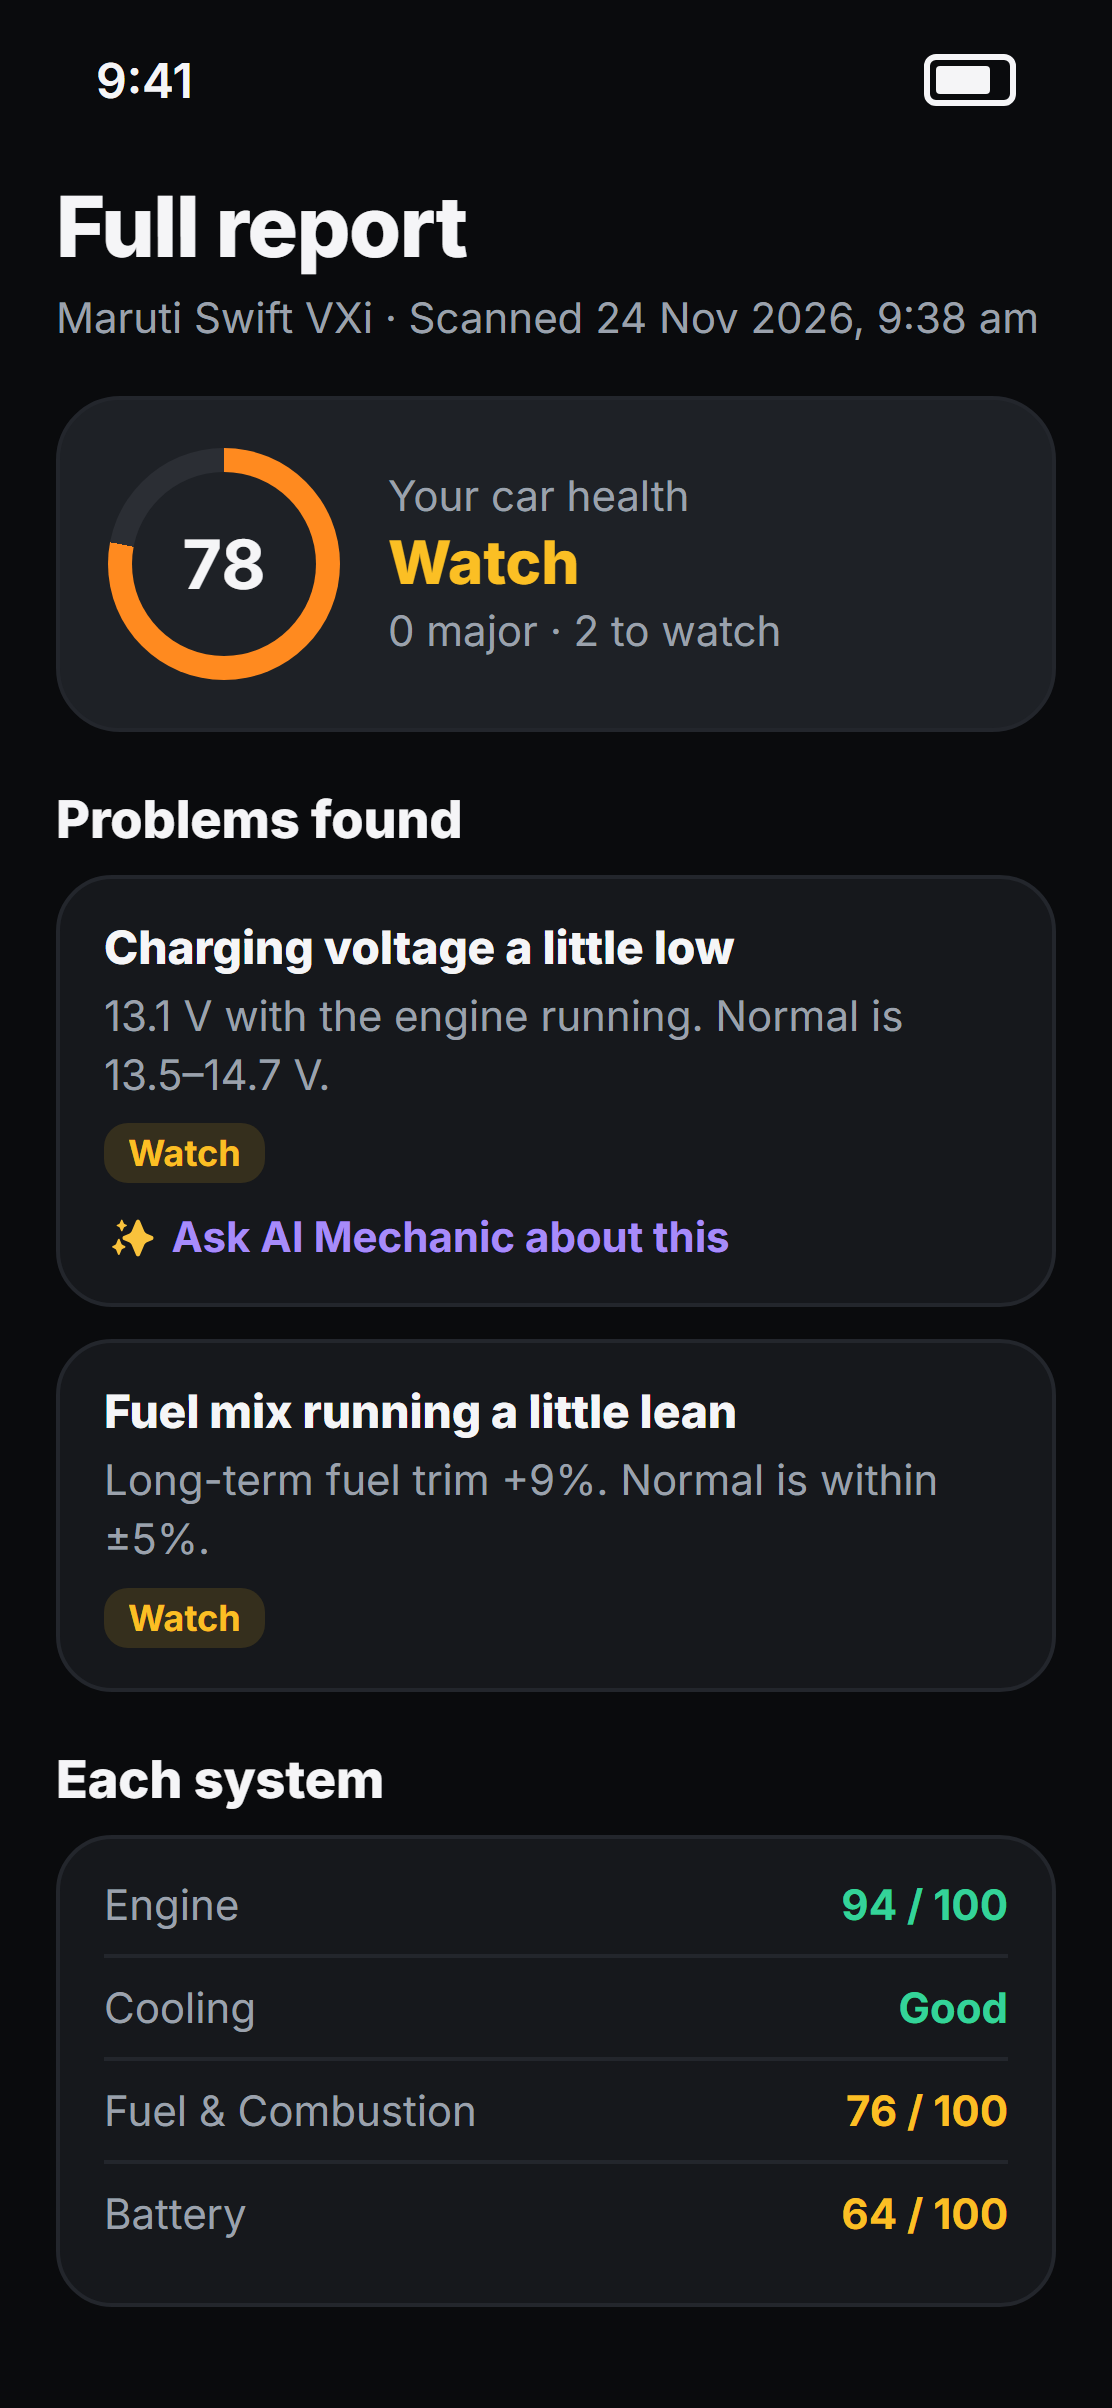
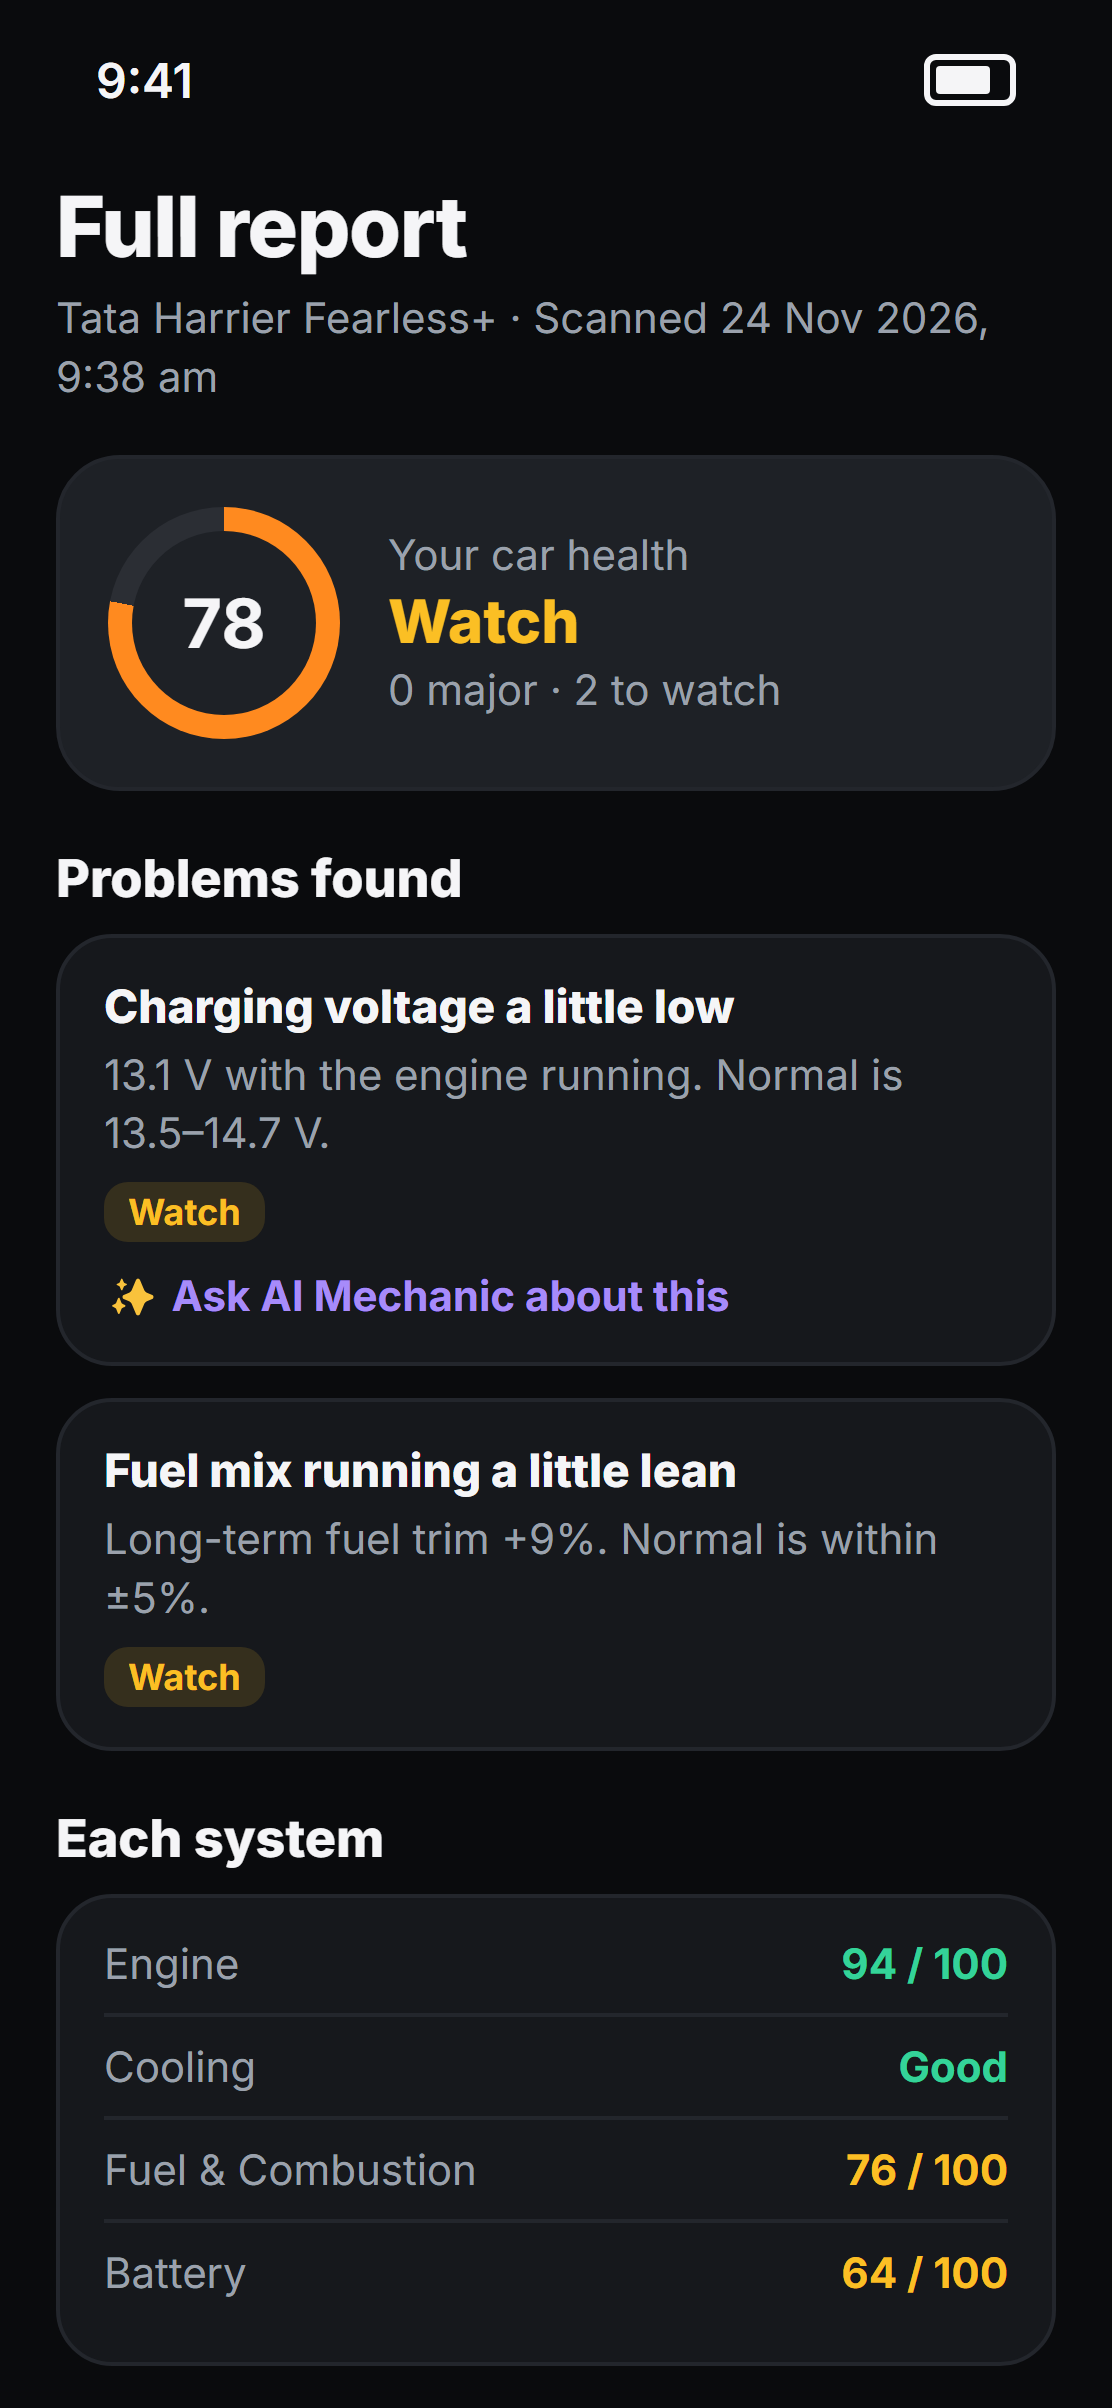
Hero video screens: white, like the app
- White My Garage (Harrier), Full report and PDF-button screens for the
  video's phone shots; the page now marks these as the ones to use
- Full report names the Harrier, not the Swift, in both versions

Changed region(s): [[0.0306, 0.1246, 0.9478, 0.9655], [0.7644, 0.7787, 0.9173, 0.9655], [0.0306, 0.5295, 0.0612, 0.5606]]

diff --git a/docs/mockups/hero-video/index.html b/docs/mockups/hero-video/index.html
@@ -43,12 +43,12 @@
     <figcaption><b>C · New My Garage, kept black</b><span class="muted">Same new layout, dark colours. Moodier and blends into the cabin, but it's a version of the app that doesn't exist.</span></figcaption>
   </figure>
 
-  <h1 style="margin-top:40px">Chosen: black. Screens for the video</h1>
-  <p class="lead">Full phone resolution (1112 × 2408). Shot 1 (about 13–16 s): My Garage. Shot 2 (about 16–18 s): the Full report, then scrolled down to the "Prepare PDF report" button for the tap.</p>
+  <h1 style="margin-top:40px">Chosen: white, like the app. Screens for the video</h1>
+  <p class="lead">Full phone resolution (1112 × 2408). Shot 1 (about 13–16 s): My Garage. Shot 2 (about 16–18 s): the Full report, then scrolled down to the "Prepare PDF report" button for the tap. The black versions (*-dark.png) are kept in this folder but aren't the ones to use.</p>
   <div class="shots">
-    <figure><img src="garage-screen-dark.png" alt="My Garage in black"><figcaption><b>Shot 1 · My Garage</b><span class="muted">garage-screen-dark.png</span></figcaption></figure>
-    <figure><img src="report-top-dark.png" alt="Full report top in black"><figcaption><b>Shot 2 · Full report</b><span class="muted">report-top-dark.png</span></figcaption></figure>
-    <figure><img src="report-pdf-dark.png" alt="Full report PDF button in black"><figcaption><b>Shot 2 · Scrolled to the PDF button</b><span class="muted">report-pdf-dark.png</span></figcaption></figure>
+    <figure><img src="garage-screen-light-car.png" alt="My Garage in white"><figcaption><b>Shot 1 · My Garage</b><span class="muted">garage-screen-light-car.png</span></figcaption></figure>
+    <figure><img src="report-top-light.png" alt="Full report top in white"><figcaption><b>Shot 2 · Full report</b><span class="muted">report-top-light.png</span></figcaption></figure>
+    <figure><img src="report-pdf-light.png" alt="Full report PDF button in white"><figcaption><b>Shot 2 · Scrolled to the PDF button</b><span class="muted">report-pdf-light.png</span></figcaption></figure>
   </div>
 </main>
 </body>
